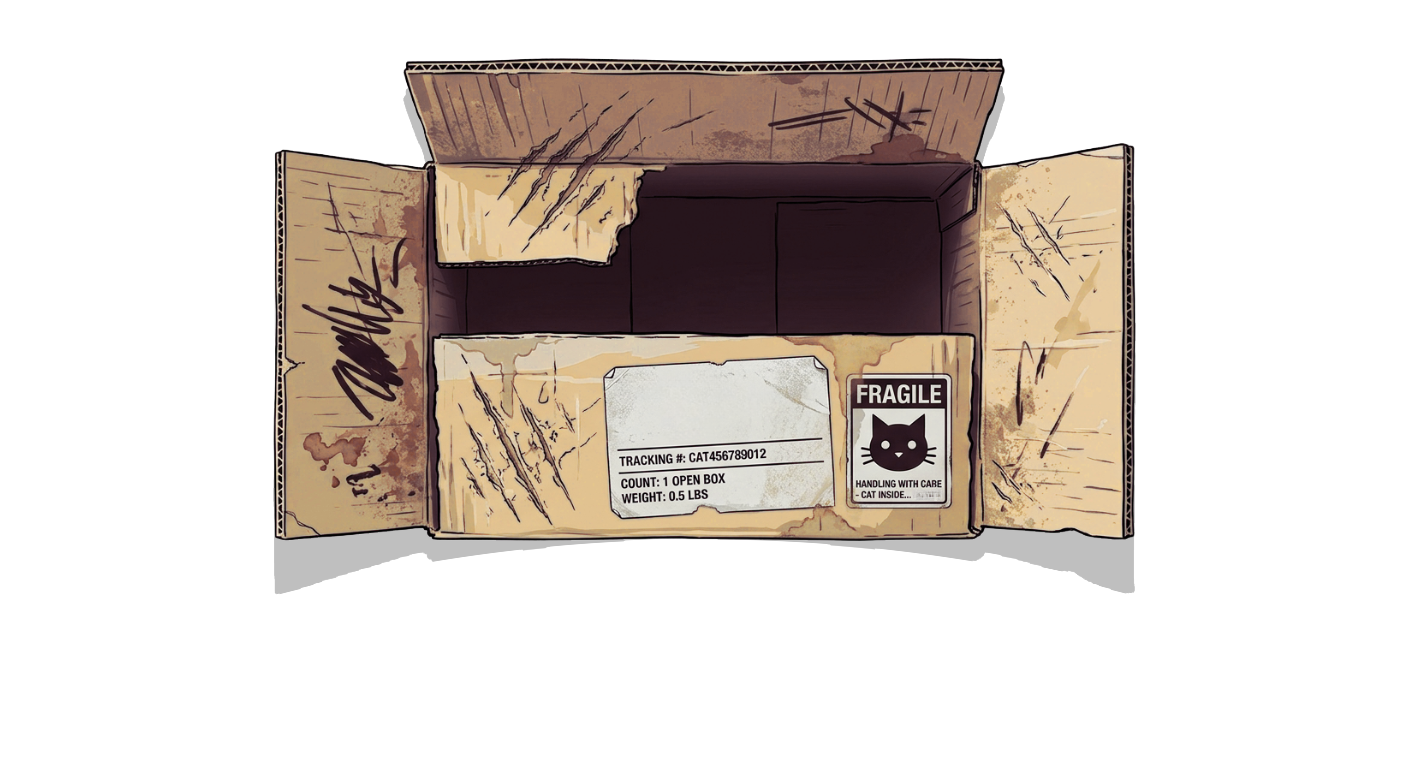
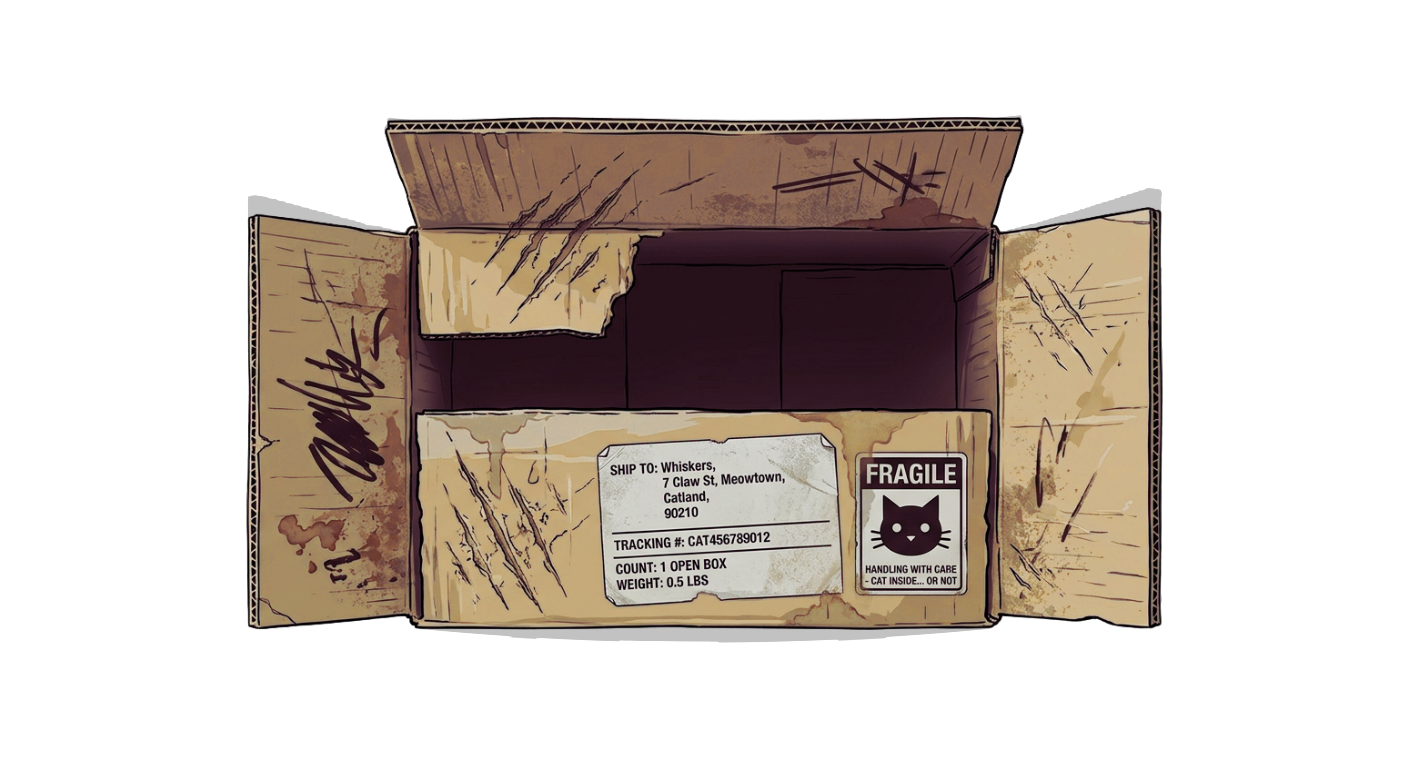
Intro: add the job-step notepads and order box to panel 2
Page 3's slab was not empty — Canva just had not painted its art when I first
captured the page. It holds three illustrated notepads (1 PACKAGING (YOUR JOB)
/ 2 SHIPMENT / 3 DELIVERY) plus the order box leaning in from off-page.

The notepads are 27 separate layers in the deck — papers, doodles, numbers and
labels. Rather than carry 27 CSS rules, they are pre-composited offline into
one flat transparent overlay (assets/ui/intro-steps.png) using each layer's
solved size, rotation and mirror flag. Placement is then a single image.

box-open.png is replaced by the deck's current version, which has the full
shipping label rather than a blank one.

Panels now declare art:'note' | 'steps' via data-art instead of a boolean,
since panel 2 turned out to have more art than panel 1, not less.

diff --git a/js/render.js b/js/render.js
@@ -57,12 +57,12 @@ function menuContinue(){
 }
 // ── new-run intro (deck pages 2-3) ───────────────────────────────────────
 // Copy lives here, not in the sheet — it is narrative framing, not balance.
-// .io-r is the coral accent, .io-b the periwinkle one. `plain` drops the note
-// and the toys so the slab reads as an empty stage for the next panel.
+// .io-r is the coral accent, .io-b the periwinkle one. `art` swaps what sits on
+// the slab: the manager's note, or the three job-step notepads + order box.
 const INTRO_STEPS=[
-  {title:'FIRST DAY OF WORK',
+  {title:'FIRST DAY OF WORK',art:'note',
    body:'<p><span class="io-r">Dear employee,</span> we are delighted to have you work at <span class="io-b">PF Inc.</span> While we know new beginnings can be tricky, we will ensure your transition to this awesome workplace is smooth and purrfect.</p>'},
-  {title:'HOW THINGS WORK',plain:true,
+  {title:'HOW THINGS WORK',art:'steps',
    body:'<p>In <span class="io-b">PF Inc.</span> we make our customer happy and our <span class="io-r">deliverables</span> even happier!</p>'+
         '<p>Your job is to <span class="io-b">fill boxes</span> of orders with our <span class="io-r">furry friends</span> and we will send these boxes everywhere on Earth!</p>'},
 ];
@@ -71,7 +71,7 @@ function introShow(){
   const st=INTRO_STEPS[introStep];if(!st)return goToBranches();
   g('io-title').textContent=st.title;
   g('io-body').innerHTML=st.body;
-  g('s-intro').classList.toggle('io-plain',!!st.plain);
+  g('s-intro').dataset.art=st.art||'note';
   show('s-intro');
 }
 function introNext(){introStep++;introShow();}

diff --git a/styles.css b/styles.css
@@ -764,11 +764,21 @@ body:has(#s-game.on) #btn-dev-float.active ~ #btn-dev-autofit{display:inline-fle
   background:#53535f url('assets/ui/bg-floor.png') center/cover no-repeat;
   cursor:url('assets/ui/cursor-arrow.svg') 2 2, auto;overflow:hidden;
 }
-/* toys only survive onto the first panel, carried over from the title screen */
+/* each panel swaps the art on the slab — data-art is set by introShow() */
 .io-toy{position:absolute;pointer-events:none;user-select:none;transform:translate(-50%,-50%) scaleX(-1);}
 .io-bell   {left:15.54%;top:67.32%;width:62.14%;height:60.26%;}
 .io-feather{left:16.40%;top:66.13%;width:62.14%;height:60.26%;}
-#s-intro.io-plain .io-toy,#s-intro.io-plain .io-note{display:none;}
+/* the three job-step notepads, pre-composited from their 27 source layers into
+   one flat overlay (assets/ui/intro-steps.png) — see the intro commit */
+.io-steps{position:absolute;left:17.08%;top:23.61%;width:39.27%;height:61.94%;pointer-events:none;}
+/* the order box leans in from off-page, top-right, behind the letter */
+.io-box{position:absolute;left:75.25%;top:-15.42%;width:87.38%;height:84.73%;
+        transform:translate(-50%,-50%) rotate(26.4deg);pointer-events:none;}
+.io-toy,.io-note,.io-steps,.io-box{display:none;}
+#s-intro[data-art="note"]  .io-toy,
+#s-intro[data-art="note"]  .io-note {display:block;}
+#s-intro[data-art="steps"] .io-steps,
+#s-intro[data-art="steps"] .io-box  {display:block;}
 
 /* the presentation slab the note is pinned to — two cards, back one offset right */
 .io-cards{position:absolute;left:22.11%;top:31.50%;width:54.81%;height:33.46%;}

diff --git a/index.html b/index.html
@@ -75,7 +75,9 @@
   <div class="tt-stage io-stage">
     <img class="io-toy io-bell"    src="assets/ui/toy-bell.png" alt="">
     <img class="io-toy io-feather" src="assets/ui/toy-feather.png" alt="">
+    <img class="io-box" src="assets/ui/box-open.png" alt="">
     <div class="io-cards"><i class="io-card-back"></i><i class="io-card-front"></i></div>
+    <img class="io-steps" src="assets/ui/intro-steps.png" alt="1 Packaging (your job), 2 Shipment, 3 Delivery">
     <div class="pf-note io-note" id="io-note">
       <img class="pfn-paper"  src="assets/ui/note-paper.png" alt="">
       <img class="pfn-cat"    src="assets/ui/note-cat.png" alt="">
